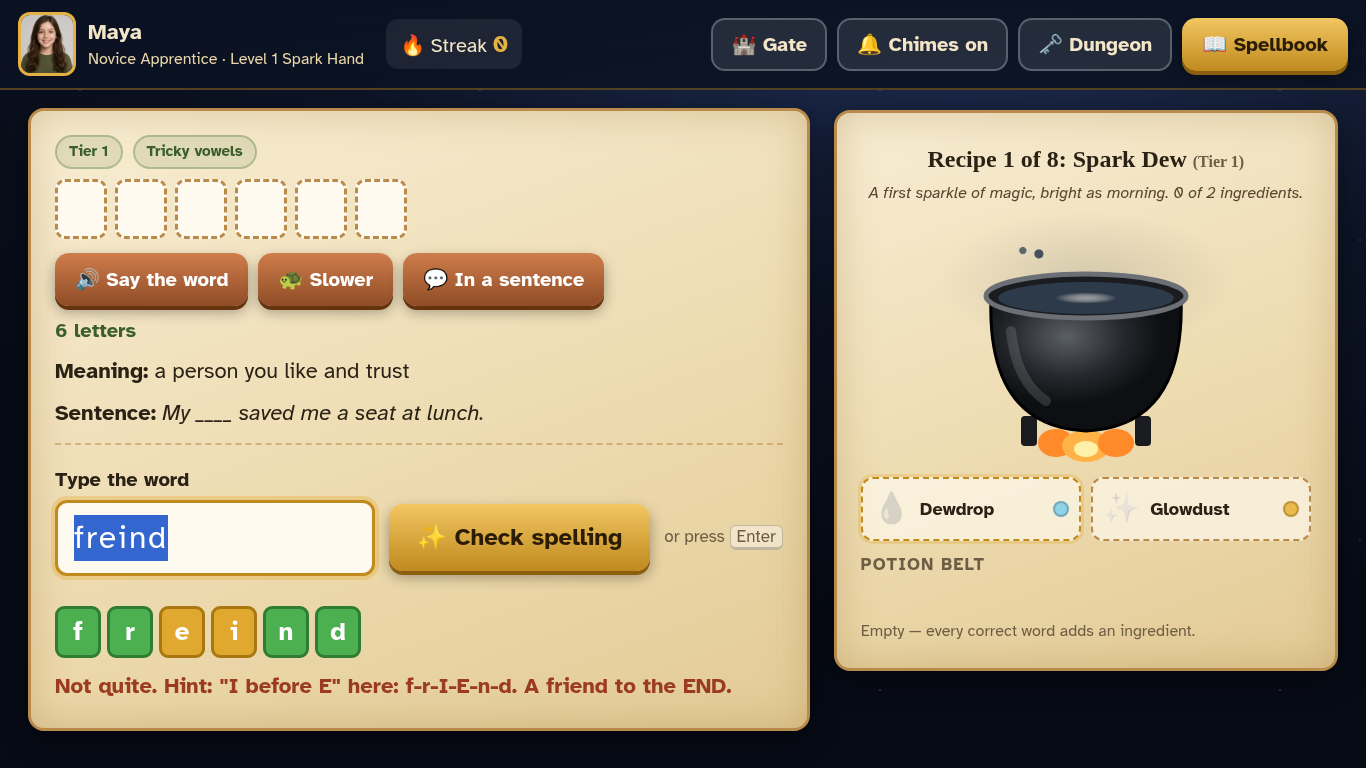
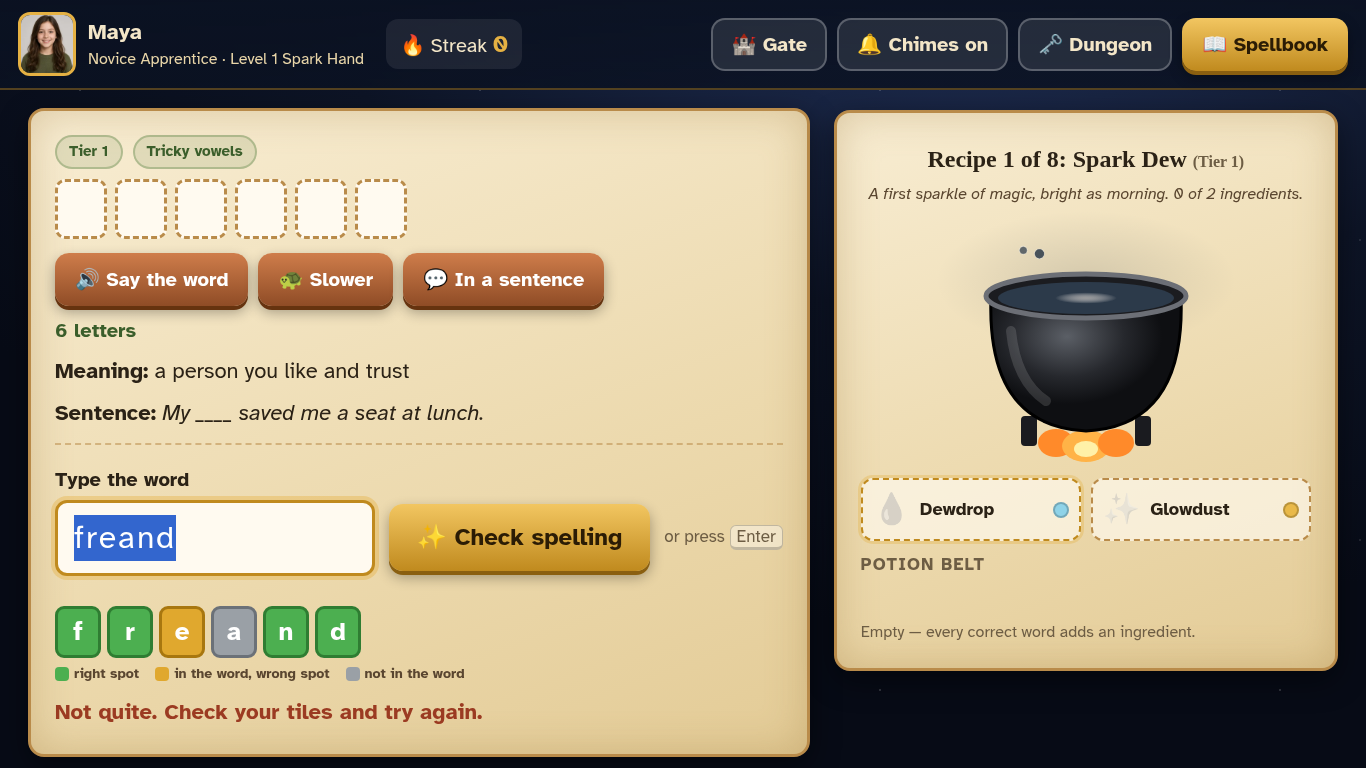
Miss feedback: tiles first, hint second, word third

diff --git a/tests/run.js b/tests/run.js
@@ -84,20 +84,30 @@ const tests = {
     ok(await p.evaluate(() => __sb.state.words["don't"].mastered === true), 'two first tries master the word');
     ok((await p.textContent('#feedback')).includes('MASTERED'), 'mastered message');
   },
-  async 'spelling: misses, hints, starts-with, study, cover, look again, review'(b){
+  async 'spelling: miss 1 tiles only, miss 2 hint + starts-with, miss 3 study, cover, look again, review'(b){
     const p = await fresh(b); await enter(p);
     await p.evaluate(() => __sb.startRound('friend')); await p.waitForTimeout(50);
-    await typeAndEnter(p, 'freind');
+    await typeAndEnter(p, 'freand');
     ok(await p.$eval('#spell-input', e => e.classList.contains('shake')), 'box shakes');
-    ok((await p.textContent('#feedback')).startsWith('Not quite. Hint:'), 'first hint');
+    let fb = await p.textContent('#feedback');
+    ok(fb === 'Not quite. Check your tiles and try again.', 'miss 1: tiles only, no hint text: ' + fb);
+    ok(!fb.includes('Hint') && !fb.includes('starts with') && !fb.includes("I before E"), 'miss 1: no hint, no starts-with');
     const marks = await p.$$eval('#tile-history .tile-row:last-child .tile', a => a.map(t => t.className.split(' ')[1]).join(''));
-    ok(marks === 'ggyygg', 'wordle marks ' + marks);
+    ok(marks === 'ggyxgg', 'wordle marks ' + marks);
+    const bg = await p.$$eval('#tile-history .tile', a => a.map(t => getComputedStyle(t).backgroundColor));
+    ok(bg[0] === 'rgb(76, 175, 80)' && bg[2] === 'rgb(224, 168, 46)' && bg[3] === 'rgb(154, 160, 166)', 'green / gold / gray colors ' + bg.join(' '));
+    ok(await p.isVisible('#tile-key'), 'color key shown');
     ok(await p.textContent('#tb-streak') === '0', 'streak reset');
     await p.waitForTimeout(1000);
     await p.screenshot({ path: path.join(SHOTS, 'desk.png') });
     await typeAndEnter(p, 'frend');
-    ok((await p.textContent('#feedback')).includes('it starts with "f'), 'starts-with hint');
+    ok(await p.$eval('#spell-input', e => e.classList.contains('shake')), 'box shakes on miss 2');
+    fb = await p.textContent('#feedback');
+    ok(fb.startsWith('Hint: ') && fb.includes(await p.evaluate(() => __sb.round.w.hint)) && fb.includes('it starts with "f'), 'miss 2: hint + starts-with');
+    ok(await p.$$eval('#tile-history .tile-row', a => a.length) === 2, 'miss 2: tiles too');
+    ok(!(await p.isVisible('#study')), 'word not shown yet');
     await typeAndEnter(p, 'frennd');
+    ok(await p.$$eval('#tile-history .tile-row', a => a.length) === 3, 'miss 3: tiles too');
     ok(await p.isVisible('#study'), 'study step after 3 misses');
     ok(await p.textContent('#study-word') === 'friend' && (await p.textContent('#study-syl')) === 'friend', 'study word + syllables');
     ok(await p.isDisabled('#spell-input'), 'input locked while studying');

diff --git a/js/app.js b/js/app.js
@@ -191,7 +191,7 @@ function renderRound(){
   $('letter-count').hidden = !S.showCount;
   $('apos-note').hidden = !w.word.includes("'");
   $('study').hidden = true;
-  $('tile-history').innerHTML = ''; $('live-tiles').innerHTML = '';
+  $('tile-history').innerHTML = ''; $('live-tiles').innerHTML = ''; $('tile-key').hidden = true;
   setFeedback('', '');
   $('type-label').textContent = 'Type the word';
   $('check-btn').textContent = '✨ Check spelling';
@@ -213,11 +213,13 @@ function score(guess, answer){
   g.forEach((ch, i) => { if(res[i] !== 'g' && left[ch]){ res[i] = 'y'; left[ch]--; } });
   return res;
 }
-function tilesHTML(guess, marks){ return `<div class="tile-row">${[...guess].map((ch, i) => `<div class="tile ${marks[i]} flip" style="animation-delay:${i*45}ms">${esc(ch)}</div>`).join('')}</div>`; }
+const MARK_NAME = { g:'right letter, right place', y:'in the word, wrong place', x:'not in the word' };
+function tilesHTML(guess, marks){ return `<div class="tile-row">${[...guess].map((ch, i) => `<div class="tile ${marks[i]} flip" style="animation-delay:${i*45}ms" title="${MARK_NAME[marks[i]]}" aria-label="${esc(ch)}: ${MARK_NAME[marks[i]]}">${esc(ch)}</div>`).join('')}</div>`; }
 function addTiles(guess){
   const marks = score(guess, norm(R.w.word));
   const hist = $('tile-history'); hist.insertAdjacentHTML('beforeend', tilesHTML(guess, marks));
   while(hist.children.length > 3) hist.removeChild(hist.firstChild);
+  $('tile-key').hidden = marks.every(m => m === 'g');
 }
 function startsWith(word){ const n = word.length > 5 ? 2 : 1; return word.slice(0, n); }
 
@@ -262,7 +264,8 @@ function check(){
     $('study-look').hidden = false; inp.select(); save(); refreshTop(); return;
   }
   R.misses++;
-  if(R.misses === 1) setFeedback(`Not quite. Hint: ${R.w.hint}`, 'bad');
+  // Miss 1: tiles only. Miss 2: tiles + hint + first letters. Miss 3: show the word (study).
+  if(R.misses === 1) setFeedback('Not quite. Check your tiles and try again.', 'bad');
   else if(R.misses === 2) setFeedback(`Hint: ${R.w.hint} And it starts with "${startsWith(R.w.word)}…"`, 'bad');
   else { openStudy(); }
   inp.select(); save(); refreshTop();

diff --git a/css/style.css b/css/style.css
@@ -100,7 +100,7 @@ kbd{background:#fff6;border:1px solid #0003;border-bottom-width:3px;border-radiu
 .tile{width:46px;height:52px;border-radius:9px;display:flex;align-items:center;justify-content:center;font-size:26px;font-weight:800;text-transform:lowercase;background:#fffaf0;border:3px solid #b98b4a;color:var(--ink)}
 .tile.g{background:#4caf50;border-color:#2f7d32;color:#fff}
 .tile.y{background:#e0a82e;border-color:#a8770f;color:#fff}
-.tile.x{background:#8b8578;border-color:#66615a;color:#fff}
+.tile.x{background:#9aa0a6;border-color:#6b7178;color:#fff}
 .tile.flip{animation:flip .45s both}
 .feedback{margin-top:12px;font-size:22px;font-weight:700;min-height:34px}
 .feedback.good{color:#2f7d32} .feedback.bad{color:#9b3b22}
@@ -274,3 +274,8 @@ body.reduced *,body.reduced *::before,body.reduced *::after{animation-duration:.
 .desk-right.many .recipe-slots{gap:8px}
 .desk-right.many .recipe-slots li{padding:5px 10px;font-size:17px}
 .desk-right.many .recipe-slots li .ic{font-size:24px}
+
+.tile-key{display:flex;gap:16px;margin-top:6px;font-size:14px;font-weight:700;color:#5a4630}
+.tile-key span{display:flex;align-items:center;gap:5px}
+.tile-key .k{width:14px;height:14px;border-radius:4px;display:inline-block}
+.tile-key .k.g{background:#4caf50} .tile-key .k.y{background:#e0a82e} .tile-key .k.x{background:#9aa0a6}

diff --git a/index.html b/index.html
@@ -111,6 +111,7 @@
       </div>
       <div id="live-tiles" class="tiles"></div>
       <div id="tile-history" class="tile-history"></div>
+      <div id="tile-key" class="tile-key" hidden><span><i class="k g"></i>right spot</span><span><i class="k y"></i>in the word, wrong spot</span><span><i class="k x"></i>not in the word</span></div>
       <div id="feedback" class="feedback" aria-live="polite"></div>
     </div>
   </div>
